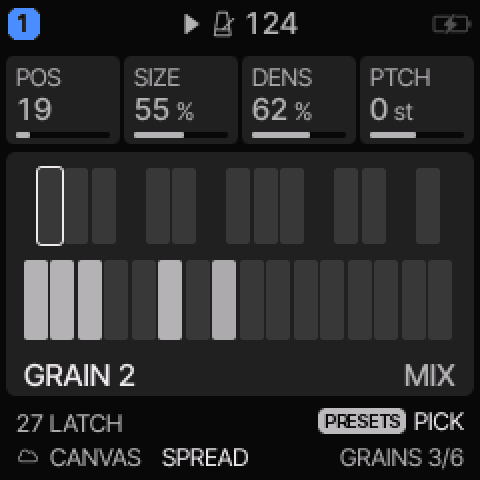
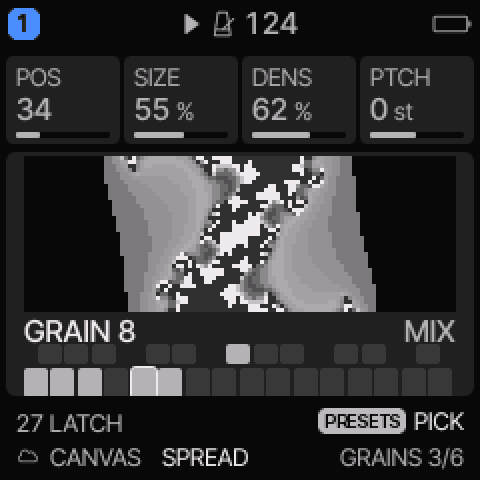
GRAINS page: reactive Julia-set fractal driven by the sounding grains
The fractal's c point follows the level-weighted grain positions along the
Mandelbrot cardioid edge; density sets the speed, and glitches freeze,
reverse, zoom-pulse, jitter or pixelate it. Site thumbnails regenerated.

Claude-Session: https://claude.ai/code/session_01QA71gvZ2uRrSdULmw4dU3h

diff --git a/firmware/src/ui_canvas.c b/firmware/src/ui_canvas.c
@@ -5,6 +5,11 @@
  *   PRESETS      picks the next / previous grain (without playing it)
  *   KEYS         play as everywhere (grains, glitches, controls: the layout, KEYS); pressing a grain key picks it, so
  *                hold a grain key and turn the knobs to shape it while it sounds
+ * The fractal (above the map, ui_graph.c graph_canvas): a Julia set the grains steer (canvas_fractal_step): their POS and
+ * levels pick where on the Mandelbrot set's edge its constant c sits, so every set of grains has its own shape and a fade
+ * morphs it;
+ * the glitches warp it (SCATR CRUSH jitter, FREEZ stops it, REVRS runs it back, JUMP BURST pulse its zoom); with nothing
+ * sounding it drifts slowly, dimmer. Coloured from the palette (BG -> SEL -> THEME -> ACCENT -> TEXT), so it follows it.
  * The map: the black keys over the white ones, as on the FM-1; a grain on (latched or held) THEME, sounding in its fade
  * MID, a glitch or control held ACCENT (idle: a dim stub), the picked grain ringed; under it the picked grain or the key
  * pressed last, and SRC. The keys' LEDs (any page): the grains that are on. */
@@ -15,7 +20,79 @@ static struct {
     uint8_t sel;                 /* the picked grain */
     uint8_t last;                /* the key pressed last (+ 1, 0 = none yet) */
     uint32_t seen;               /* cv_part_t.pressed as last followed */
+    int32_t t;                   /* the fractal's time (1/1024 turns of its drift), once a frame */
+    int32_t cr, ci;              /* its constant c, Q12, easing towards what the grains ask */
+    int32_t zoom;                /* Q12 (4096 = the whole set) */
+    uint8_t lit;                 /* 1: something sounds (full colour) */
+    uint8_t crush;               /* CRUSH held: coarse cells */
 } cvs;
+
+static cv_part_t *canvas_part(void);
+
+/* sin of a in 1/1024 turns, Q12 (a parabola per half turn: smooth enough for a drift) */
+static int32_t cv_sin(int32_t a)
+{
+    int32_t x = a & 1023, s = 1;
+    if (x >= 512) {
+        x -= 512;
+        s = -1;
+    }
+    return s * (x * (512 - x) / 16);                     /* 4 x (512 - x) / 512^2, Q12: x (512 - x) / 16 */
+}
+static int32_t cv_cos(int32_t a) { return cv_sin(a + 256); }
+
+/* once a frame: the fractal follows the grains (c, the zoom, the time). c runs along the edge of the Mandelbrot set's
+ * main cardioid, c = r (e^{i th} / 2 - e^{2 i th} / 4), where every Julia set is intricate: the grains sounding pick th
+ * (their POS, weighted by their levels; a slow drift on top), how many sound pick r (1.0 alone, fine filaments,
+ * up to 1.044 with many, scattering into dust) */
+static void canvas_fractal_step(void)
+{
+    cv_part_t *P = canvas_part();
+    int32_t sum = 0, acc = 0, dt = 2, z = 4096, th, r, jr = 0, ji = 0, tr, ti, nsnd = 0;
+    uint32_t g, on;
+    cvs.lit = 0;
+    cvs.crush = 0;
+    if (P) {
+        on = P->latched | P->held;
+        for (g = 0; g < CV_KEYS; g++) {
+            int32_t lv = P->gain[g] >> 3;                 /* Q12 */
+            if (lv <= 0)
+                continue;
+            acc += cv_get(TSEL, g, CV_POS) * 8 * lv / 4096;   /* POS 0..127 -> a turn (1024) */
+            sum += lv;
+            nsnd++;
+        }
+        cvs.lit = on || sum > 0;
+        dt = cvs.lit ? 4 + nsnd * 2 : 2;
+        if ((P->glitch >> CV_GL_FRZ) & 1u)
+            dt = 0;
+        if ((P->glitch >> CV_GL_REV) & 1u)
+            dt = -dt;
+        if (P->glitch & ((1u << CV_GL_JUMP) | (1u << CV_GL_BURST) | (1u << CV_GL_R16) | (1u << CV_GL_R32)))
+            z = 4096 - (cv_sin(cvs.t * 8) > 0 ? 1100 : 0);   /* a pulse */
+        if ((P->glitch >> CV_GL_TAPE) & 1u)
+            z = 4096 + 1400;
+        if (P->glitch & ((1u << CV_GL_SCAT) | (1u << CV_GL_CRUSH))) {
+            uint32_t q = (uint32_t)cvs.t * 2654435761u;
+            jr = (int32_t)((q >> 8) & 255u) - 128;
+            ji = (int32_t)((q >> 20) & 255u) - 128;
+        }
+        cvs.crush = (P->glitch >> CV_GL_CRUSH) & 1u;
+    }
+    cvs.t += dt;
+    th = (sum > 0 ? acc * 4096 / sum : 0) + 300 + cvs.t / 4;   /* (300: at rest, a spiral) */
+    r = 4100 + (nsnd > 8 ? 8 : nsnd) * 22;                /* 1.0 .. 1.044, Q12 */
+    tr = (cv_cos(th) / 2 - cv_cos(2 * th) / 4) * r / 4096 + jr;
+    ti = (cv_sin(th) / 2 - cv_sin(2 * th) / 4) * r / 4096 + ji;
+    if (!cvs.cr && !cvs.ci) {
+        cvs.cr = tr;
+        cvs.ci = ti;
+        cvs.zoom = z;
+    }
+    cvs.cr += (tr - cvs.cr) / 6;                          /* eased: a fade morphs it */
+    cvs.ci += (ti - cvs.ci) / 6;
+    cvs.zoom += (z - cvs.zoom) / 3;
+}
 
 static int canvas_page_ok(void) { return TSEL->eng_req % NENGINES == ENGI_CANVAS; }
 static int canvas_page_on(void) { return !ui.home && cur_page()->graph == GR_CANVAS && canvas_page_ok(); }
@@ -90,6 +167,8 @@ static uint32_t canvas_sig(void)
     cv_part_t *P = canvas_part();
     uint32_t h = 2166136261u, g;
     canvas_follow();
+    canvas_fractal_step();
+    h = (h ^ (uint32_t)(cvs.cr * 31 + cvs.ci * 7 + cvs.zoom + cvs.crush)) * 16777619u;   /* (it moves: a redraw a frame) */
     if (P) {
         h = (h ^ P->latched) * 16777619u;
         h = (h ^ P->held) * 16777619u;

diff --git a/firmware/src/ui_graph.c b/firmware/src/ui_graph.c
@@ -685,15 +685,49 @@ static void graph_slices(void)
 #endif
 
 #if FELUCCA_CANVAS
-/* GRAINS (ui_canvas.c): the keys as on the FM-1, the black row over the white; a white key 13.5 px apart (x 12..228). A grain
- * on THEME, fading out MID, off RAISE; the picked grain ringed in TEXT; a glitch or control a short stub (MID), held ACCENT;
- * then the label (the picked grain or the key pressed last) and SRC (DIM: no material, it is silent) */
+/* GRAINS (ui_canvas.c): the fractal (x 12..228, y 2..80), the label and SRC (y 80), then the keys as on the FM-1, a
+ * slim strip: the black row (y 96..105) over the white (y 107..122), a white key 13.5 px apart. A grain on THEME,
+ * fading out MID, off RAISE; the picked grain ringed in TEXT; a glitch or control a short stub, held ACCENT */
+#define CV_FX_X 12
+#define CV_FX_Y 2
+#define CV_FX_W 216
+#define CV_FX_H 78
+static void graph_fractal(void)
+{
+    uint16_t ramp[16];
+    const uint16_t stops[5] = {T_BG, T_SEL, T_THEME, T_ACCENT, T_TEXT};
+    int32_t cell = cvs.crush ? 6 : 2, x, y, i, cr = cvs.cr, ci = cvs.ci, sc = cvs.zoom ? cvs.zoom : 4096;
+    int32_t step = 3 * 4096 * sc / 4096 * 16 / 15 / CV_FX_W; /* Q12 a pixel: the view 3.2 wide (zoom: more) */
+    uint16_t inside;
+    for (i = 0; i < 16; i++) {                           /* the palette's ramp: dim at rest */
+        int32_t f = i * 4 * 100 / 15, k = f / 100;
+        uint16_t c = k >= 4 ? stops[4] : ux_mix(stops[k], stops[k + 1], f - k * 100);
+        ramp[i] = cvs.lit ? c : ux_mix(T_BG, c, 55);
+    }
+    inside = ux_mix(T_BG, ramp[4], 30);                   /* the set itself: dark, so its edge glows */
+    for (y = 0; y < CV_FX_H; y += cell) {
+        int32_t zy0 = (y + cell / 2 - CV_FX_H / 2) * step;
+        for (x = 0; x < CV_FX_W; x += cell) {
+            int32_t zx = (x + cell / 2 - CV_FX_W / 2) * step, zy = zy0, n = 0;
+            for (; n < 24; n++) {                        /* z = z^2 + c, Q12; out past |z| = 2 (24: the cost a frame) */
+                int32_t xx = (zx * zx) >> 12, yy = (zy * zy) >> 12;
+                if (xx + yy > 4 * 4096)
+                    break;
+                zy = ((zx * zy) >> 11) + ci;
+                zx = xx - yy + cr;
+            }
+            cv_rect(CV_FX_X + x, CV_FX_Y + y, x + cell > CV_FX_W ? CV_FX_W - x : cell,
+                    y + cell > CV_FX_H ? CV_FX_H - y : cell, n >= 24 ? inside : ramp[n <= 2 ? 0 : n > 15 ? 15 : n]);
+        }
+    }
+}
 static void graph_canvas(void)
 {
     cv_part_t *P = canvas_part();
     uint32_t k, idx, lay = cv_lay(TSEL->p), src = cv_src(TSEL->p), sel = canvas_sel();
     uint32_t on = P ? P->latched | P->held : 0u;
     char t[16];
+    graph_fractal();
     for (k = 0; k < CV_KEYS; k++) {
         int32_t w = CV_WHITE[k % 12u], bl = CV_BLACK[k % 12u], o = (int32_t)(k / 12u), x, y, h, cw;
         uint32_t role = cv_role(lay, k, &idx);
@@ -701,12 +735,12 @@ static void graph_canvas(void)
         if (w >= 0) {                                   /* white: x 12 + place * 13.5, the lower row */
             int32_t pl = o * 7 + w;
             x = 12 + pl * 27 / 2;
-            y = 54, h = 40, cw = 12;
+            y = 108, h = 15, cw = 12;
         } else {                                        /* black: between its two white neighbours, the upper row */
             static const int8_t AFTER[5] = {0, 1, 2, 4, 5};   /* the white place left of F# G# A# C# D# */
             int32_t pl = o * 7 + AFTER[bl];
             x = 12 + pl * 27 / 2 + 7;
-            y = 8, h = 38, cw = 12;
+            y = 96, h = 10, cw = 12;
         }
         if (role == CV_R_GRAIN) {
             uint32_t lit = (on >> idx) & 1u;
@@ -719,12 +753,12 @@ static void graph_canvas(void)
             if (held)
                 cv_rrect(x, y, cw, h, 2, T_ACCENT, T_SURF);
             else
-                cv_rrect(x, y + h - 8, cw, 8, 2, role == CV_R_GLITCH ? T_MID : T_DIM, T_SURF);
+                cv_rrect(x, y + h - 4, cw, 4, 1, role == CV_R_GLITCH ? T_MID : T_DIM, T_SURF);
         }
     }
     canvas_label(t, sizeof t);
-    cv_text(12, 102, &AF_M, t, T_TEXT);
-    cv_text_r(228, 102, &AF_M, N_CV_SRC[src], cv_nzones(src) ? T_THEME : T_DIM, T_SURF);
+    cv_text(12, 80, &AF_M, t, T_TEXT);
+    cv_text_r(228, 80, &AF_M, N_CV_SRC[src], cv_nzones(src) ? T_THEME : T_DIM, T_SURF);
 }
 #endif
 

diff --git a/tests/ui_render.c b/tests/ui_render.c
@@ -2284,9 +2284,54 @@ static void al_table(void)
             al_count, al_nst, al_fail, al_lost);
 }
 
+#if FELUCCA_CANVAS
+/* CANVAS_ANIM=PALETTE ui_render OUTDIR: the GRAINS page's fractal frame by frame (OUTDIR/ppm/PALETTE_f000.ppm ..), a
+ * preview, not a check: a scripted performance: grains latched one by one (their fades), SCATR, FREEZ, CRUSH held,
+ * the grains off one by one */
+static int canvas_anim(const char *out, const char *pn)
+{
+    static const uint8_t ON_AT[6] = {12, 30, 48, 66, 84, 102}, GR[6] = {0, 4, 9, 2, 13, 7};
+    uint32_t p, f, g, pi = 0;
+    cv_part_t *P;
+    char name[32];
+    for (p = 0; p < NPALETTES; p++)
+        if (!strcmp(UI_PALETTES[p].name, pn))
+            pi = p;
+    setup((int)S_CANVAS);
+    P = cv_of(TSEL);
+    P->latched = 0;
+    P->glitch = 0;
+    memset(P->gain, 0, sizeof P->gain);
+    cvs.cr = cvs.ci = 0;
+    pal(pi);
+    for (f = 0; f < 240u; f++) {
+        for (g = 0; g < 6u; g++) {
+            if (f == ON_AT[g]) { P->latched |= 1u << GR[g]; cvs.sel = GR[g]; cvs.last = 0; }
+            if (f == 180u + g * 8u) P->latched &= ~(1u << GR[g]);
+        }
+        P->glitch = f >= 120u && f < 140u ? 1u << CV_GL_SCAT : f >= 140u && f < 155u ? 1u << CV_GL_FRZ :
+                    f >= 155u && f < 170u ? 1u << CV_GL_CRUSH : 0u;
+        for (g = 0; g < CV_KEYS; g++) {                 /* the streams' fades, as the engine would (~0.3 s) */
+            int32_t to = ((P->latched >> g) & 1u) ? 32768 : 0, d = to - P->gain[g];
+            P->gain[g] += d > 3000 ? 3000 : d < -3000 ? -3000 : d;
+        }
+        P->pressed = cvs.seen;                          /* (no key followed: the pick is the script's) */
+        draw((int)S_CANVAS);
+        snprintf(name, sizeof name, "f%03u", f);
+        write_ppm(out, pn, name);
+    }
+    printf("canvas_anim: 240 frames in %s/ppm\n", out);
+    return 0;
+}
+#endif
+
 int main(int argc, char **argv)
 {
     const char *out = argc > 1 ? argv[1] : "build/ui_new";
+#if FELUCCA_CANVAS
+    if (getenv("CANVAS_ANIM"))
+        return canvas_anim(out, getenv("CANVAS_ANIM"));
+#endif
     char path[600];
     uint32_t p, s;
     static const char *const SHOW[] = {"GREY", "MONO", "GREEN", "PAPER", "NIGHT"};   /* (NIGHT: #50, to review) */
